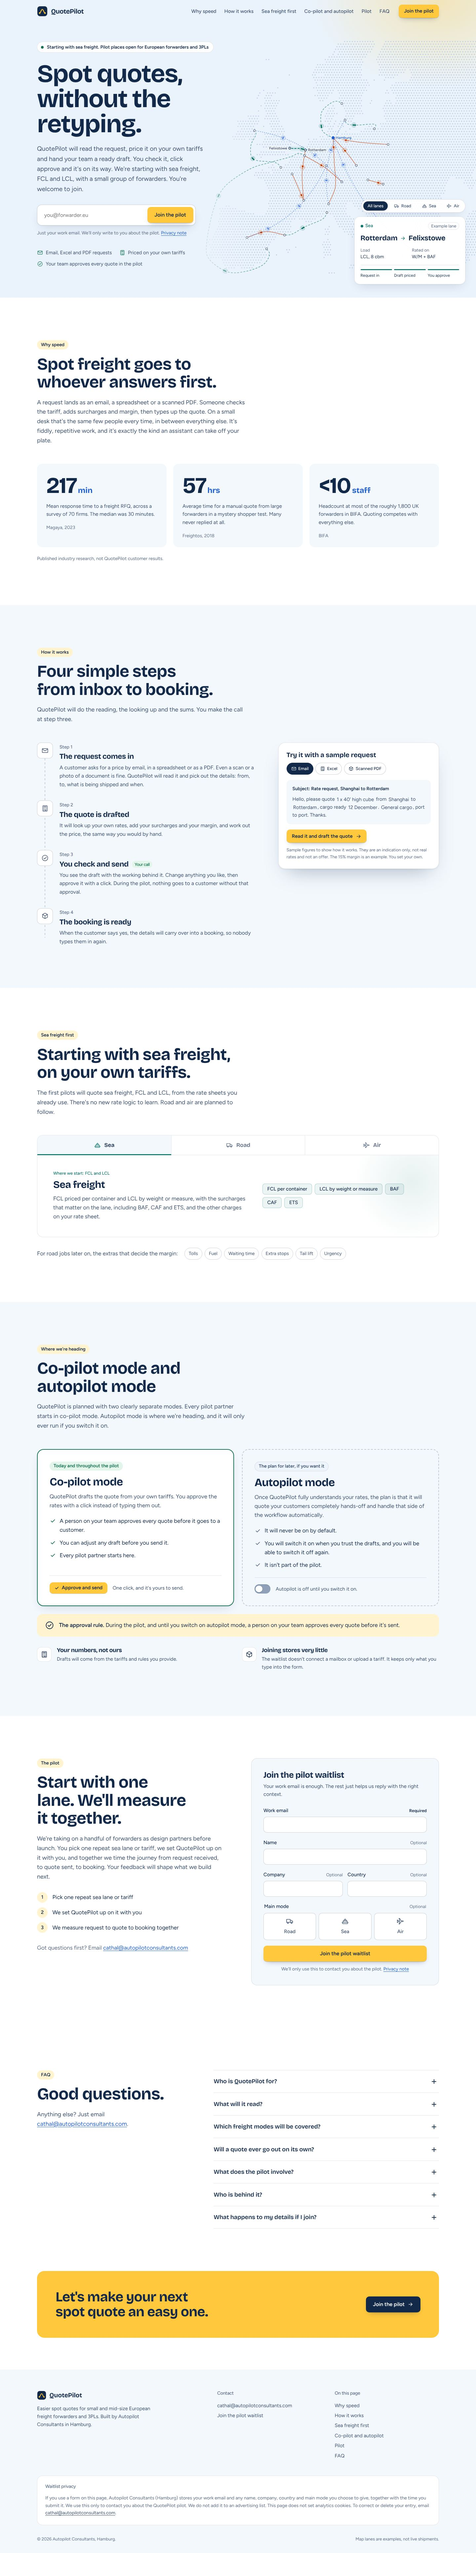
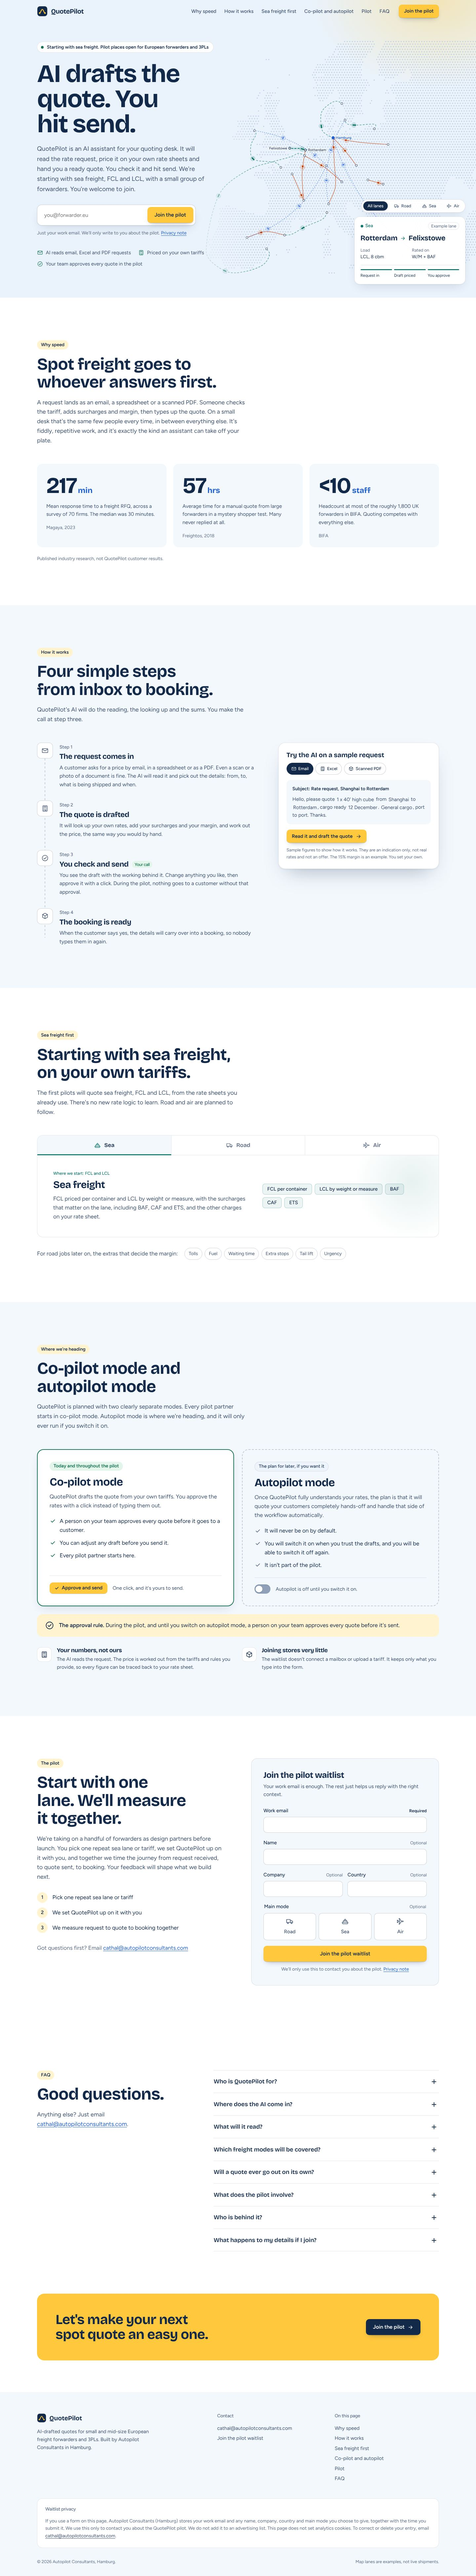
Lead with AI in the headline and copy
New headline: AI drafts the quote. You hit send. The hero, the steps,
the demo and the footer now name the AI, and a new FAQ answer explains
that the AI reads and writes while the price comes from the forwarder's
own rate sheets.

Claude-Session: https://claude.ai/code/session_012CCbPrYwKi96DXXUWHY8XR

diff --git a/public/index.html b/public/index.html
@@ -5,10 +5,10 @@
   <meta name="viewport" content="width=device-width, initial-scale=1">
   <meta name="color-scheme" content="light">
   <meta name="theme-color" content="#f3f8fd">
-  <title>QuotePilot: easier spot quotes for European forwarders</title>
-  <meta name="description" content="QuotePilot is a pre-launch quoting assistant for freight forwarders. It will read quote requests from email, Excel and PDF, price them on your own tariffs and hand your team a draft to approve, starting with sea freight. Join the pilot waitlist for small and mid-size European forwarders and 3PLs, from Autopilot Consultants in Hamburg.">
+  <title>QuotePilot: AI quoting for European freight forwarders</title>
+  <meta name="description" content="QuotePilot is a pre-launch AI quoting assistant for freight forwarders. It will read quote requests from email, Excel and PDF, price them on your own tariffs and hand your team a draft to approve, starting with sea freight. Join the pilot waitlist for small and mid-size European forwarders and 3PLs, from Autopilot Consultants in Hamburg.">
   <meta property="og:title" content="QuotePilot">
-  <meta property="og:description" content="Spot quotes drafted from your own tariffs and approved by your team with a click. Join the pilot waitlist for European freight forwarders and 3PLs.">
+  <meta property="og:description" content="AI drafts the quote from your own tariffs. Your team checks it and hits send. Starting with sea freight. Join the pilot waitlist for European freight forwarders and 3PLs.">
   <meta property="og:type" content="website">
   <meta property="og:locale" content="en">
   <link rel="icon" href="favicon.svg" type="image/svg+xml">
@@ -95,8 +95,8 @@
       <div class="wrap hero-inner">
         <div class="hero-copy">
           <p class="eyebrow"><span class="pulse" aria-hidden="true"></span>Starting with sea freight. Pilot places open for European forwarders and 3PLs</p>
-          <h1 id="hero-title">Spot quotes, without the retyping.</h1>
-          <p class="deck">QuotePilot will read the request, price it on your own tariffs and hand your team a ready draft. You check it, click approve and it's on its way. We're starting with sea freight, FCL and LCL, with a small group of forwarders. You're welcome to join.</p>
+          <h1 id="hero-title">AI drafts the quote. You hit send.</h1>
+          <p class="deck">QuotePilot is an AI assistant for your quoting desk. It will read the rate request, price it on your own rate sheets and hand you a ready quote. You check it and hit send. We're starting with sea freight, FCL and LCL, with a small group of forwarders. You're welcome to join.</p>
 
           <form id="waitlist" class="inline-form" action="api/waitlist" method="post" data-waitlist-form aria-label="Join the pilot waitlist">
             <div class="form-banner" data-banner tabindex="-1" hidden></div>
@@ -119,7 +119,7 @@
           <p class="form-note">Just your work email. We'll only write to you about the pilot. <a href="#privacy">Privacy note</a></p>
 
           <ul class="hero-proof">
-            <li><svg aria-hidden="true"><use href="#i-mail"/></svg>Email, Excel and PDF requests</li>
+            <li><svg aria-hidden="true"><use href="#i-mail"/></svg>AI reads email, Excel and PDF requests</li>
             <li><svg aria-hidden="true"><use href="#i-calc"/></svg>Priced on your own tariffs</li>
             <li><svg aria-hidden="true"><use href="#i-check"/></svg>Your team approves every quote in the pilot</li>
           </ul>
@@ -160,7 +160,7 @@
         <div class="section-head">
           <p class="label">How it works</p>
           <h2>Four simple steps from inbox to booking.</h2>
-          <p class="lede">QuotePilot will do the reading, the looking up and the sums. You make the call at step three.</p>
+          <p class="lede">QuotePilot's AI will do the reading, the looking up and the sums. You make the call at step three.</p>
         </div>
         <div class="how-grid">
           <ol class="route">
@@ -169,7 +169,7 @@
               <div>
                 <p class="stop-no">Step 1</p>
                 <h3>The request comes in</h3>
-                <p>A customer asks for a price by email, in a spreadsheet or as a PDF. Even a scan or a photo of a document is fine. QuotePilot will read it and pick out the details: from, to, what is being shipped and when.</p>
+                <p>A customer asks for a price by email, in a spreadsheet or as a PDF. Even a scan or a photo of a document is fine. The AI will read it and pick out the details: from, to, what is being shipped and when.</p>
               </div>
             </li>
             <li class="stop">
@@ -200,7 +200,7 @@
 
           <div class="demo" data-demo hidden>
             <div class="demo-head">
-              <p class="demo-title">Try it with a sample request</p>
+              <p class="demo-title">Try the AI on a sample request</p>
               <div class="demo-tabs" role="group" aria-label="Sample request type">
                 <button type="button" class="chip is-active" data-sample="email" aria-pressed="true"><svg aria-hidden="true"><use href="#i-mail"/></svg>Email</button>
                 <button type="button" class="chip" data-sample="excel" aria-pressed="false"><svg aria-hidden="true"><use href="#i-calc"/></svg>Excel</button>
@@ -339,7 +339,7 @@
         </div>
         <p class="rule"><svg aria-hidden="true"><use href="#i-check"/></svg><span><strong>The approval rule.</strong> During the pilot, and until you switch on autopilot mode, a person on your team approves every quote before it's sent.</span></p>
         <ul class="promise">
-          <li><svg aria-hidden="true"><use href="#i-calc"/></svg><div><h3>Your numbers, not ours</h3><p>Drafts will come from the tariffs and rules you provide.</p></div></li>
+          <li><svg aria-hidden="true"><use href="#i-calc"/></svg><div><h3>Your numbers, not ours</h3><p>The AI reads the request. The price is worked out from the tariffs and rules you provide, so every figure can be traced back to your rate sheet.</p></div></li>
           <li><svg aria-hidden="true"><use href="#i-box"/></svg><div><h3>Joining stores very little</h3><p>The waitlist doesn't connect a mailbox or upload a tariff. It keeps only what you type into the form.</p></div></li>
         </ul>
       </div>
@@ -424,6 +424,10 @@
             <p>Small and mid-size European freight forwarders and 3PLs. In particular owners, operations managers and the sales or quoting team who answer rate requests every day.</p>
           </details>
           <details>
+            <summary>Where does the AI come in?</summary>
+            <p>The AI does the reading and the writing. It will understand a rate request however it arrives, pick out the details, spot what is missing and draft the reply in your wording. The price itself is calculated from your own rate sheets, so the AI never makes up a number.</p>
+          </details>
+          <details>
             <summary>What will it read?</summary>
             <p>Quote requests by email, Excel and PDF, including scans and photos of documents, plus your own rate sheets. It will be able to match a customer's spreadsheet to your layout. It will also read the paperwork that often comes with a request, such as bills of lading, customs documents, invoices, purchase orders, packing lists and transport orders.</p>
           </details>
@@ -471,7 +475,7 @@
           </svg>
           QuotePilot
         </p>
-        <p>Easier spot quotes for small and mid-size European freight forwarders and 3PLs. Built by Autopilot Consultants in Hamburg.</p>
+        <p>AI-drafted quotes for small and mid-size European freight forwarders and 3PLs. Built by Autopilot Consultants in Hamburg.</p>
       </div>
       <div>
         <h2>Contact</h2>

diff --git a/public/app.js b/public/app.js
@@ -514,7 +514,7 @@
       out.hidden = false;
       fieldsEl.textContent = "";
       linesEl.textContent = "";
-      status.textContent = "Reading the request...";
+      status.textContent = "The AI is reading the request...";
       let t = 150;
       let pending = null;
       sample.fields.forEach((field, i) => {

diff --git a/public/styles.css b/public/styles.css
@@ -744,7 +744,7 @@ svg {
   font-size: clamp(2.7rem, 5.8vw, 4.75rem);
   line-height: 1;
   letter-spacing: -0.03em;
-  max-width: 11ch;
+  max-width: 12ch;
 }
 
 .deck {
